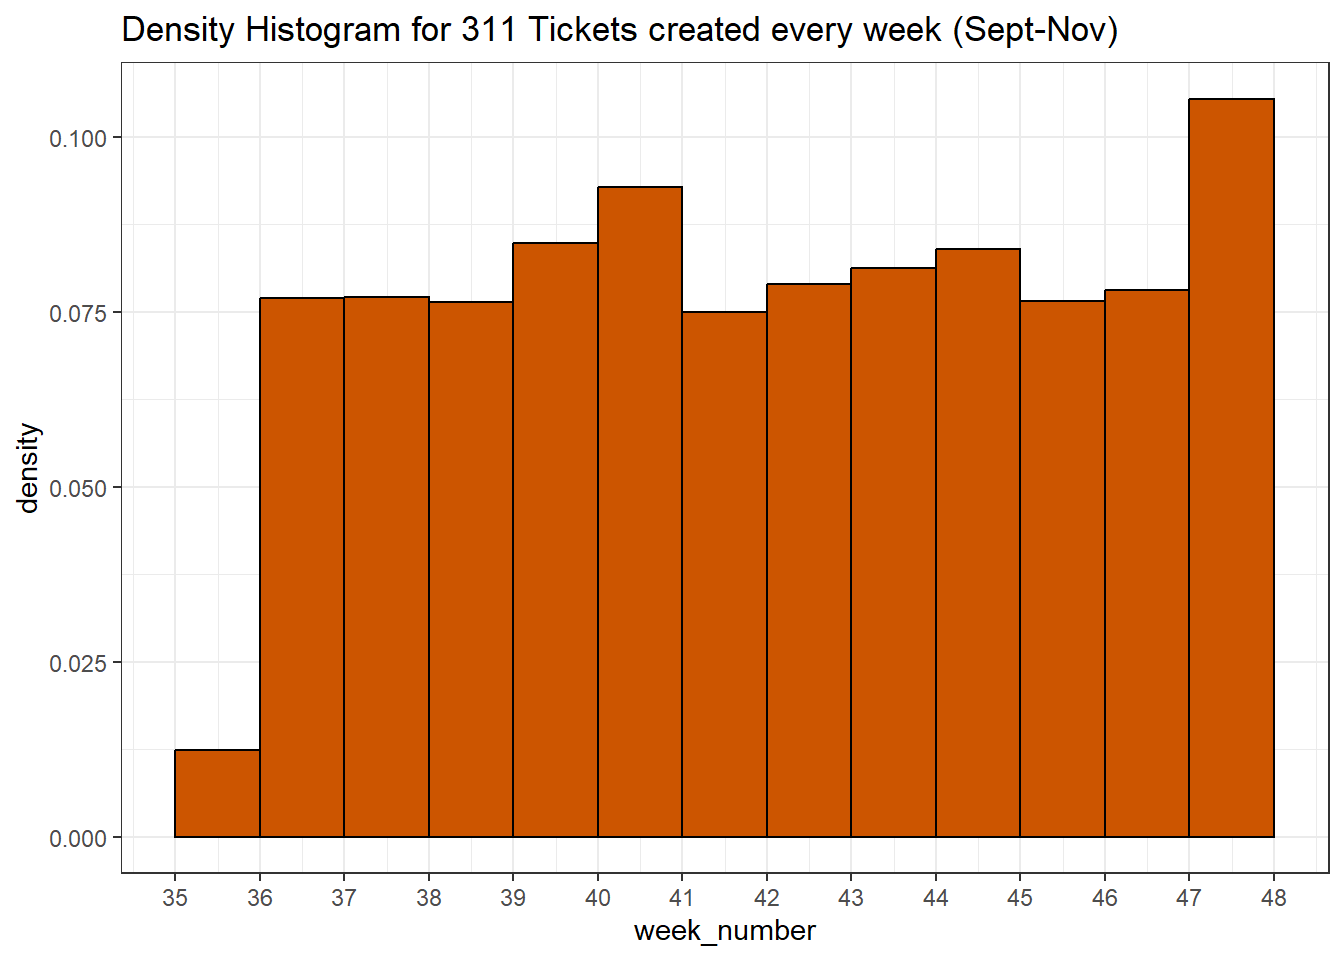
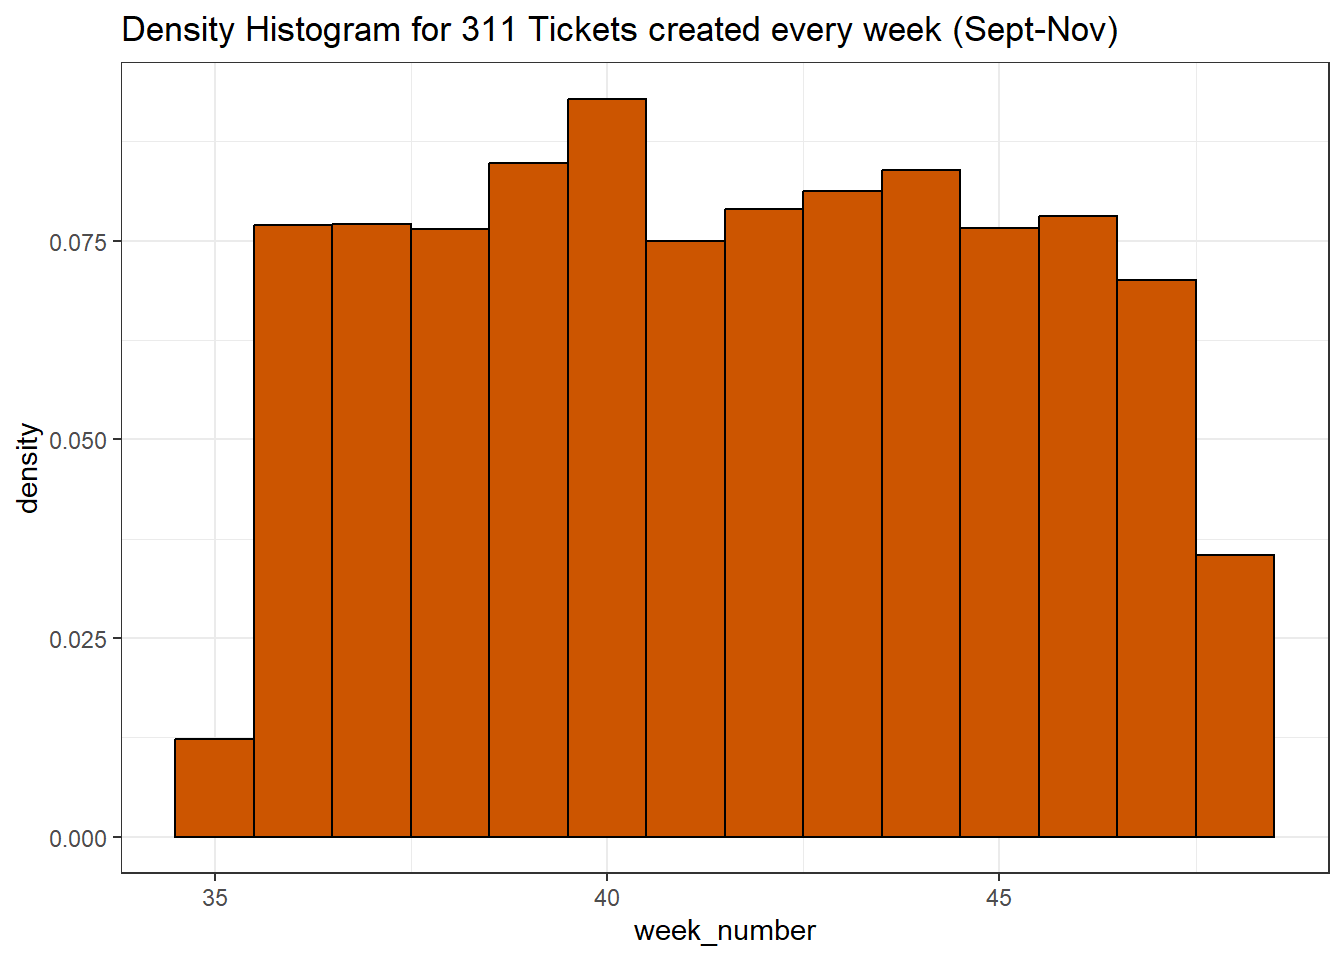
Updated results file with comments and rendered

diff --git a/docs/results.html b/docs/results.html
@@ -452,6 +452,8 @@ Unspecified
 <p><img src="results_files/figure-html/unnamed-chunk-9-1.png" class="img-fluid" width="672"></p>
 </div>
 </div>
+<p><strong>Comment:</strong></p>
+<p>From this, we can see that indeed the Amsterdam and Broadway Ave areas in Manhattan UWS have the most complaints. So is the Prospect Park area in Brooklyn, which also coincides with the Ocean Ave street. This narrows down the areas of the streets, which are more problematic.</p>
 </section>
 <section id="q4-what-is-the-proportion-of-complaints-that-were-handled-by-different-departments" class="level2" data-number="3.5">
 <h2 data-number="3.5" class="anchored" data-anchor-id="q4-what-is-the-proportion-of-complaints-that-were-handled-by-different-departments"><span class="header-section-number">3.5</span> (Q4) What is the proportion of complaints that were handled by different departments?</h2>
@@ -748,12 +750,10 @@ Unspecified
 <span id="cb25-4"><a href="#cb25-4" aria-hidden="true" tabindex="-1"></a>    <span class="at">color =</span> <span class="st">"black"</span>,</span>
 <span id="cb25-5"><a href="#cb25-5" aria-hidden="true" tabindex="-1"></a>    <span class="at">fill =</span> <span class="st">"#CC5500"</span>,</span>
 <span id="cb25-6"><a href="#cb25-6" aria-hidden="true" tabindex="-1"></a>    <span class="at">binwidth =</span> <span class="dv">1</span>,</span>
-<span id="cb25-7"><a href="#cb25-7" aria-hidden="true" tabindex="-1"></a>    <span class="at">boundary =</span> <span class="dv">0</span>,</span>
-<span id="cb25-8"><a href="#cb25-8" aria-hidden="true" tabindex="-1"></a>    <span class="at">right =</span> <span class="cn">FALSE</span></span>
-<span id="cb25-9"><a href="#cb25-9" aria-hidden="true" tabindex="-1"></a>  ) <span class="sc">+</span></span>
-<span id="cb25-10"><a href="#cb25-10" aria-hidden="true" tabindex="-1"></a>  <span class="fu">ggtitle</span>(<span class="st">"Density Histogram for 311 Tickets created every week (Sept-Nov)"</span>) <span class="sc">+</span></span>
-<span id="cb25-11"><a href="#cb25-11" aria-hidden="true" tabindex="-1"></a>  <span class="fu">theme_bw</span>() <span class="sc">+</span></span>
-<span id="cb25-12"><a href="#cb25-12" aria-hidden="true" tabindex="-1"></a>  <span class="fu">scale_x_continuous</span>(<span class="at">breaks =</span> <span class="fu">seq</span>(<span class="fu">min</span>(service_data<span class="sc">$</span>week_number), <span class="fu">max</span>(service_data<span class="sc">$</span>week_number), <span class="at">by =</span> <span class="dv">1</span>))</span></code><button title="Copy to Clipboard" class="code-copy-button"><i class="bi"></i></button></pre></div>
+<span id="cb25-7"><a href="#cb25-7" aria-hidden="true" tabindex="-1"></a>    <span class="at">right =</span> <span class="cn">FALSE</span></span>
+<span id="cb25-8"><a href="#cb25-8" aria-hidden="true" tabindex="-1"></a>  ) <span class="sc">+</span></span>
+<span id="cb25-9"><a href="#cb25-9" aria-hidden="true" tabindex="-1"></a>  <span class="fu">ggtitle</span>(<span class="st">"Density Histogram for 311 Tickets created every week (Sept-Nov)"</span>) <span class="sc">+</span></span>
+<span id="cb25-10"><a href="#cb25-10" aria-hidden="true" tabindex="-1"></a>  <span class="fu">theme_bw</span>()</span></code><button title="Copy to Clipboard" class="code-copy-button"><i class="bi"></i></button></pre></div>
 </details>
 <div class="cell-output-display">
 <p><img src="results_files/figure-html/unnamed-chunk-21-1.png" class="img-fluid" width="672"></p>
